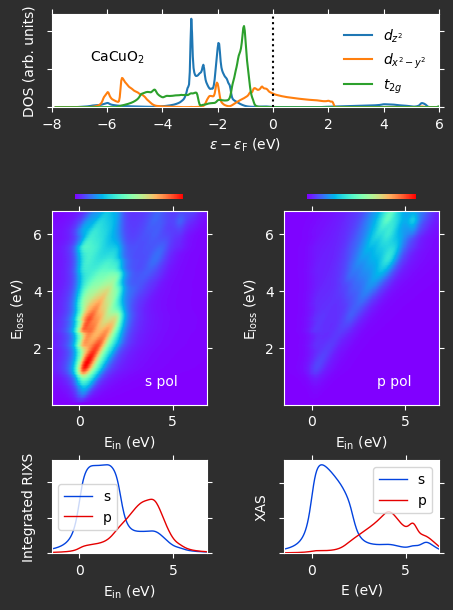
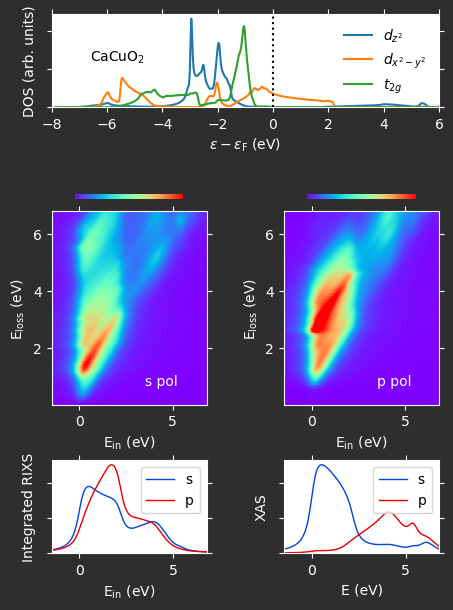
reviews, improvements, and speedup

diff --git a/dosrixs/dosrixs.py b/dosrixs/dosrixs.py
@@ -44,7 +44,6 @@ def _str2dorbital(d:DORBITAL) -> YlmExpansion:
         case 'dxz':   return DXZ
         case 'dyz':   return DYZ
 
-
 def build_d_states(order:list[DORBITAL]=["dz2", "dxy", "dx2y2", "dxz", "dyz"]) -> list[YlmExpansion]:
     """The d-orbital valence states ordered by the order keyword.
 
@@ -56,6 +55,77 @@ def build_d_states(order:list[DORBITAL]=["dz2", "dxy", "dx2y2", "dxz", "dyz"]) -
     """
     return [ _str2dorbital(o) for o in order]
 
+def build_local_d_states(U:np.ndarray|None=None, order:list[DORBITAL]=["dz2", "dx2y2", "dxy", "dxz", "dyz"]) -> list[YlmExpansion]:
+    r"""Build valence states from a local-to-cubic-harmonic rotation matrix U.
+
+    Given a unitary matrix U that relates a local d-orbital basis to the
+    standard cubic harmonics, this function constructs the local orbitals
+    as :class:`YlmExpansion` objects suitable for matrix element calculations.
+
+    The local orbitals are defined as:
+
+    .. math:: |\tilde{d}_\alpha\rangle = \sum_\beta U_{\beta\alpha} |d_\beta\rangle
+
+    where :math:`|d_\beta\rangle` are the standard cubic harmonics in the given order.
+
+    :param U: unitary rotation matrix (5×5) from local to cubic harmonic basis,
+              where column α gives the cubic harmonic coefficients of local orbital α.
+              Defaults to the identity matrix (standard cubic harmonics).
+    :type U: np.ndarray | None
+    :param order: ordering of the cubic harmonic d-orbitals matching U's rows
+    :type order: list[DORBITAL]
+    :return: local d-orbital states as YlmExpansion objects
+    :rtype: list[YlmExpansion]
+    """
+    if U is None:
+        U = np.eye(5)
+    cubic_states = build_d_states(order)
+    local_states = []
+    for alpha in range(U.shape[1]):
+        state = U[0, alpha] * cubic_states[0]
+        for beta in range(1, len(cubic_states)):
+            state = state + U[beta, alpha] * cubic_states[beta]
+        local_states.append(state)
+    return local_states
+
+def cubic_to_spherical_matrix(order:list[DORBITAL]=["dz2", "dx2y2", "dxy", "dxz", "dyz"]) -> np.ndarray:
+    r"""Build the unitary transformation matrix T from the cubic harmonic
+    (real d-orbital) basis to the complex spherical harmonic basis.
+
+    The rows are indexed by :math:`m = -2, -1, 0, 1, 2` and the columns
+    by the cubic harmonic orbitals in the given order.
+
+    To transform a matrix U from the cubic to the spherical harmonic basis:
+
+    .. math:: U^{Y_{lm}} = T \, U \, T^{\dagger}
+
+    :param order: ordering of the cubic harmonic d-orbitals
+    :type order: list[DORBITAL]
+    :return: the 5×5 unitary transformation matrix T
+    :rtype: np.ndarray
+    """
+    d_states = build_d_states(order)
+    T = np.zeros((5, 5), dtype=complex)
+    for col, state in enumerate(d_states):
+        for m in range(-2, 3):
+            T[m + 2, col] = state[(m, 0)]
+    return T
+
+def rotate_matrix_to_spherical(U:np.ndarray, order:list[DORBITAL]=["dz2", "dx2y2", "dxy", "dxz", "dyz"]) -> np.ndarray:
+    r"""Rotate a matrix from the cubic harmonic basis to the spherical harmonic basis.
+
+    .. math:: U^{Y_{lm}} = T \, U \, T^{\dagger}
+
+    :param U: a matrix defined in the cubic harmonic d-orbital basis
+    :type U: np.ndarray
+    :param order: ordering of the cubic harmonic d-orbitals matching the rows/columns of U
+    :type order: list[DORBITAL]
+    :return: the matrix in the spherical harmonic (m = -2, -1, 0, 1, 2) basis
+    :rtype: np.ndarray
+    """
+    T = cubic_to_spherical_matrix(order)
+    return T @ U @ T.conj().T
+
 def get_core_edge_quantum_numbers(edge:EDGE) -> dict[str, float]:
     """Get the quantum number corresponding to an edge.
 
@@ -66,6 +136,7 @@ def get_core_edge_quantum_numbers(edge:EDGE) -> dict[str, float]:
     """
     if   edge == "L2":  return {'n' : 2, 'l' : 1, 'j' : 0.5}
     elif edge == "L3":  return {'n' : 2, 'l' : 1, 'j' : 1.5}
+    else: raise ValueError(f"Unsupported edge: '{edge}'. Supported edges: L2, L3.")
 
 def build_core_states(edge:EDGE) -> list[YlmExpansion]: 
     """The core states for the a given RIXS edge process
@@ -80,7 +151,7 @@ def build_core_states(edge:EDGE) -> list[YlmExpansion]:
     spin2idx = lambda x : 0 if x > 0 else 1
     loop = int(j*2)
     core_states:list[YlmExpansion] = []
-    for tmj in [x for x in np.arange(-loop, loop+1, 2) if x != 0]:
+    for tmj in np.arange(-loop, loop+1, 2):
         mj= float(0.5*tmj)
         data = {}
         for m in range(-l, l+1):
@@ -103,21 +174,42 @@ def initial_to_final_transition_amplitude(core_states:list[YlmExpansion],
     |c> are the core states and |i>, |f> are the initial and 
     final valence states. 
     """
-    total= np.zeros((2,2),dtype=complex)
-    for (sp1, sp2) in product(range(2), range(2)):
-        for core in core_states:
-            dipole_out = sum(final[(m, sp2)]*core[(l, sp2)]*coeffq*gaunt(m1=l, m2=mq, m3=m)
-                               for m in final.magnetic_quantum_numbers
-                               for l in core.magnetic_quantum_numbers
-                               for (mq, _, coeffq) in outgoing_pol)
-            dipole_in = sum(initial[(m, sp1)]*core[(l, sp1)]*coeffq*gaunt(m1=l, m2=mq, m3=m)
-                               for m in initial.magnetic_quantum_numbers
-                               for l in  core.magnetic_quantum_numbers
-                               for (mq, _, coeffq) in incoming_pol)
-            total[sp1,sp2] += np.conj(dipole_out)*dipole_in
+    lc = core_states[0].angular_quantum_number
+    lp_in = incoming_pol.angular_quantum_number
+    lp_out = outgoing_pol.angular_quantum_number
+    li = initial.angular_quantum_number
+    lf = final.angular_quantum_number
+
+    # Pre-collect non-zero (m, spin, coeff) entries to avoid redundant lookups
+    initial_terms = [(m, s, c) for m, s, c in initial if abs(c) > 0]
+    final_terms   = [(m, s, c) for m, s, c in final   if abs(c) > 0]
+    pol_in_terms  = [(mq, sq, cq) for mq, sq, cq in incoming_pol  if abs(cq) > 0]
+    pol_out_terms = [(mq, sq, cq) for mq, sq, cq in outgoing_pol  if abs(cq) > 0]
+
+    total = np.zeros((2, 2), dtype=complex)
+    for core in core_states:
+        core_terms = [(mc, sc, cc) for mc, sc, cc in core if abs(cc) > 0]
+        for sp1, sp2 in product(range(2), range(2)):
+            dipole_out = 0.0j
+            for m, s, cf in final_terms:
+                if s != sp2: continue
+                for mc, sc, cc in core_terms:
+                    if sc != sp2: continue
+                    for mq, _, cq in pol_out_terms:
+                        if mc + mq + m != 0: continue
+                        dipole_out += cf * cc * cq * gaunt(lc, mc, lp_out, mq, lf, m)
+
+            dipole_in = 0.0j
+            for m, s, ci in initial_terms:
+                if s != sp1: continue
+                for mc, sc, cc in core_terms:
+                    if sc != sp1: continue
+                    for mq, _, cq in pol_in_terms:
+                        if mc + mq + m != 0: continue
+                        dipole_in += ci * cc * cq * gaunt(lc, mc, lp_in, mq, li, m)
+
+            total[sp1, sp2] += np.conj(dipole_out) * dipole_in
     return float(np.sum(np.abs(total)**2))
-
-
 
 def rixs_matrix_elements(states:list[YlmExpansion], core_states:list[YlmExpansion], 
                          incoming_pols:list[YlmExpansion]|YlmExpansion, outgoing_pols:list[YlmExpansion]|YlmExpansion ) -> np.ndarray:
@@ -219,11 +311,19 @@ def rixs_cross_section(e_mesh:np.ndarray,
                                            density_of_states[above_zero,i], left=0.0, right=0.0
                                            ).reshape(len(eocc), len(Eloss))
 
-    intergrand = np.einsum('ef, iel, ekl->eklif', rho_occ, rho_shifted_all, lorentz)
+    # Contract polarization matrix elements with occupied DOS up front
+    # rho_occ: (n_occ, n_states), pol: (n_pol, n_states, n_states)
+    # rho_pol: (n_pol, n_occ, n_states) = sum_f rho_occ(e,f) * M(pol,f,i) 
+    #   → weight for each (pol, occ_energy, initial_state)
+    rho_pol = np.einsum('ef,pfi->pei', rho_occ, pol_matrix_elements)
 
-    cross_section = np.asarray([simpson(np.einsum('elkif,if->elk', intergrand, pol), x=eocc, axis=0)
-                                for ipol, pol in enumerate(pol_matrix_elements)]
-                                ).reshape(-1, len(Ein), len(Eloss))
+    # rho_shifted_all: (n_states, n_occ, n_eloss)
+    # rho_pol:         (n_pol, n_occ, n_states)
+    # lorentz:         (n_occ, n_ein, n_eloss)
+    # integrand:       (n_pol, n_occ, n_ein, n_eloss)
+    integrand = np.einsum('pei,iel,ekl->pekl', rho_pol, rho_shifted_all, lorentz)
+
+    cross_section = simpson(integrand, x=eocc, axis=1)
     return x_grid, y_grid, cross_section
 
 def xas(e_mesh:np.ndarray, 
@@ -252,7 +352,7 @@ def xas(e_mesh:np.ndarray,
 
     dim_states = density_of_states.shape[-1]
     dim_pol_el = pol_matrix_elements.shape[-1]
-    assert dim_states == dim_pol_el, "The dimension of the density of states is not equal to the number of polarization elements ({dim_states} != {dim_pol})"
+    assert dim_states == dim_pol_el, f"The dimension of the density of states is not equal to the number of polarization elements ({dim_states} != {dim_pol_el})"
 
     dim_pol = pol_matrix_elements.shape[0]
 
@@ -263,12 +363,14 @@ def xas(e_mesh:np.ndarray,
 
     Ein   = e_mesh[(e_mesh > Emin) & (e_mesh < Emax)]
 
-    xas_data = np.zeros((dim_pol, len(Ein)), dtype=float)
+    # lorentz: shape (n_unocc, n_ein)
+    lorentz = 0.5 * Gamma / ((eunocc[:, None] - Ein[None, :]) ** 2 + 0.25 * Gamma ** 2)
 
-    for (ie, ein) in enumerate(Ein):
-        lorentz = 0.5*Gamma / ( (eunocc - ein)**2 + 0.25*Gamma**2 )
-        for state in range(dim_states):
-            for pol in range(dim_pol):
-                integrand    = rho_unocc[:, state]*pol_matrix_elements[pol, state]*lorentz
-                xas_data[pol, ie] += simpson(integrand, x=eunocc)
+    # rho_weighted: shape (n_pol, n_states, n_unocc) — DOS weighted by matrix elements
+    rho_weighted = pol_matrix_elements[:, :, None] * rho_unocc[None, :, :].transpose(0, 2, 1)
+
+    # integrand: shape (n_pol, n_unocc, n_ein) — sum over states, then integrate over unocc
+    integrand = np.einsum('pse,ek->pek', rho_weighted, lorentz)
+    xas_data = simpson(integrand, x=eunocc, axis=1)
+
     return Ein, xas_data

diff --git a/dosrixs/ylmexpansion.py b/dosrixs/ylmexpansion.py
@@ -1,7 +1,10 @@
 from __future__ import annotations
 from typing import Union, Iterator
+from copy import deepcopy
 
 Scalar = Union[int, float, complex]
+
+_ATOL = 1e-12
 
 class YlmExpansion(object):
     r"""An abstract representation of a state in a basis of spherical harmonics. A state is represented as:
@@ -25,12 +28,15 @@ class YlmExpansion(object):
         for x, y in self._data.items(): yield x[0], x[1], y
 
     def __repr__(self:YlmExpansion) -> str:  
-        idx2spin = lambda x : '↑' if x > 0 else '↓'
-        return " ".join([f"{val:.4f}*|{self._l},{key[0]}>⊗|{idx2spin(key[1])}>" for (key, val) in self._data.items() if val !=0+0j])
+        idx2spin = lambda x : '↑' if x == 0 else '↓'
+        return " ".join([f"{val:.4f}*|{self._l},{key[0]}>⊗|{idx2spin(key[1])}>" for (key, val) in self._data.items() if abs(val) > _ATOL])
     
     def __eq__(self:YlmExpansion, x) -> bool: 
         if isinstance(x, YlmExpansion): 
-            return self._l == x._l and self._data == x._data
+            if self._l != x._l:
+                return False
+            all_keys = set(self._data.keys()).union(x._data.keys())
+            return all(abs(self[key] - x[key]) < _ATOL for key in all_keys)
         raise ValueError(f"No equality operation available for {type(x).__name__}!")
 
     __str__ = __repr__
@@ -55,6 +61,26 @@ class YlmExpansion(object):
     # subtraction
     def __sub__(self, x:YlmExpansion) -> YlmExpansion : return self.__add__(-x)
 
+    # copy
+    def copy(self) -> YlmExpansion: return deepcopy(self)
+
+    # conjugate
+    def conjugate(self) -> YlmExpansion:
+        r"""Return the complex conjugate of this expansion.
+
+        :return: a new YlmExpansion with conjugated coefficients
+        :rtype: YlmExpansion
+        """
+        return YlmExpansion(l=self._l, data={key : val.conjugate() if isinstance(val, complex) else val for key, val in self._data.items()})
+
+    def norm(self) -> float:
+        r"""Compute the norm :math:`\sqrt{\langle \psi | \psi \rangle} = \sqrt{\sum_{m,\sigma} |c_{m\sigma}|^2}`.
+
+        :return: the norm of the state
+        :rtype: float
+        """
+        return sum(abs(val)**2 for val in self._data.values())**0.5
+
     # properties
 
     @property
@@ -62,4 +88,4 @@ class YlmExpansion(object):
 
     @property
     def magnetic_quantum_numbers(self)->list[int]: 
-        return [m for m in list(range(-self._l, self._l+1)) if m in list(map(lambda x : x[0], self._data.keys()))]
+        return [m for m in range(-self._l, self._l+1) if any(abs(self._data.get((m, s), 0.0)) > _ATOL for s in range(2))]

diff --git a/dosrixs/utils.py b/dosrixs/utils.py
@@ -27,32 +27,32 @@ def three_j_symbol(j1:int, m1:int, j2:int, m2:int, j3:int, m3:int) -> float:
     return float(three_j_sym)
 
 @lru_cache
-def gaunt(l1:int=1, l2:int=1, l3:int=2, m1:int=0, m2:int=0, m3:int=0) -> float:
+def gaunt(l1:int, m1:int, l2:int, m2:int, l3:int, m3:int) -> float:
     r"""Compute Gaunt coefficients:
 
     .. math:: G(l_{1}, l_{2}, l_{3}, m_{1}, m_{2}, m_{3}) = \int d \Omega Y_{l_{1}}^{m_{1}}(\Omega)Y_{l_{2}}^{m_{2}}(\Omega)Y_{l_{3}}^{m_{3}}(\Omega) 
 
-    :param l1: angular quantum number, defaults to 1
-    :type l1: int, optional
-    :param l2: angular quantum number, defaults to 1
-    :type l2: int, optional
-    :param l3: total angular momentum, defaults to 2
-    :type l3: int, optional
-    :param m1: magnetic quantum number, defaults to 0
-    :type m1: int, optional
-    :param m2: magnetic quantum number, defaults to 0
-    :type m2: int, optional
-    :param m3: total magnetic quanutm number, defaults to 0
-    :type m3: int, optional
+    :param l1: angular quantum number
+    :type l1: int
+    :param m1: magnetic quantum number
+    :type m1: int
+    :param l2: angular quantum number
+    :type l2: int
+    :param m2: magnetic quantum number
+    :type m2: int
+    :param l3: angular quantum number
+    :type l3: int
+    :param m3: magnetic quantum number
+    :type m3: int
     :return: Gaunt coefficient
     :rtype: float
     """
-    coeff = np.sqrt(45.0/np.arctan(1.0)/16.0)
+    coeff = np.sqrt((2*l1+1)*(2*l2+1)*(2*l3+1)/(4*np.pi))
     a = three_j_symbol(l1, 0, l2, 0, l3, 0)
     b = three_j_symbol(l1, m1, l2, m2, l3, m3)
     return coeff*a*b
 
 def gaunt_sympy(l1:float, m1:float, l2:float, m2:float, l3:float, m3:float) -> complex:
+    """Wrapper around sympy.physics.quantum.cg."""
     from sympy.physics.quantum.cg import CG
-    """wrapper around sympy.physics.quantum.cg"""
     return complex(CG(l1, m1, l2, m2, l3, m3).doit())

diff --git a/test/test_gaunt.py b/test/test_gaunt.py
@@ -49,7 +49,7 @@ class TestGaunt(unittest.TestCase):
                                [  1,  1,  0,  0.000000 ],
                                [  1,  1,  1,  0.000000 ],
                                [  1,  1,  2,  0.000000 ]])
-        data = np.asarray([ [m1, m2, m3, gaunt(m1=m1, m2=m2, m3=m3)] for m1 in [-1,0,1] for m2 in [-1,0,1] for m3 in [-2,-1,0,1,2]])
+        data = np.asarray([ [m1, m2, m3, gaunt(l1=1, m1=m1, l2=1, m2=m2, l3=2, m3=m3)] for m1 in [-1,0,1] for m2 in [-1,0,1] for m3 in [-2,-1,0,1,2]])
         np.testing.assert_allclose(ref_data[:,-1], data[:,-1], rtol=1e-5, atol=1e-5)
 
 if __name__ == "__main__":

diff --git a/dosrixs/__init__.py b/dosrixs/__init__.py
@@ -1,3 +1,4 @@
 from .dosrixs import rixs_matrix_elements, xas_matrix_elements, rixs_cross_section, xas, initial_to_final_transition_amplitude
-from .dosrixs import build_core_states, build_electric_fields, build_d_states
+from .dosrixs import build_core_states, build_electric_fields, build_d_states, build_local_d_states
+from .dosrixs import cubic_to_spherical_matrix, rotate_matrix_to_spherical
 

diff --git a/test/test_matrix_elements.py b/test/test_matrix_elements.py
@@ -5,7 +5,7 @@ from dosrixs import rixs_matrix_elements
 from dosrixs.ylmexpansion import YlmExpansion
 from dosrixs.utils import gaunt
 
-g = lambda x, y, z: gaunt(m1=x,m2=y,m3=z)
+g = lambda x, y, z: gaunt(l1=1, m1=x, l2=1, m2=y, l3=2, m3=z)
 
 def _generate_reference_matrix_elements(theta, thetap):
 
